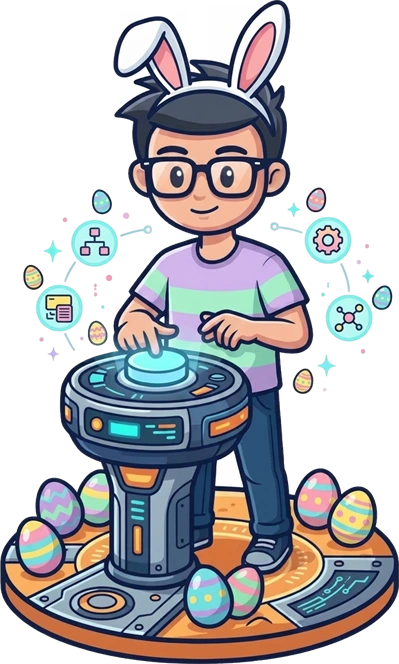
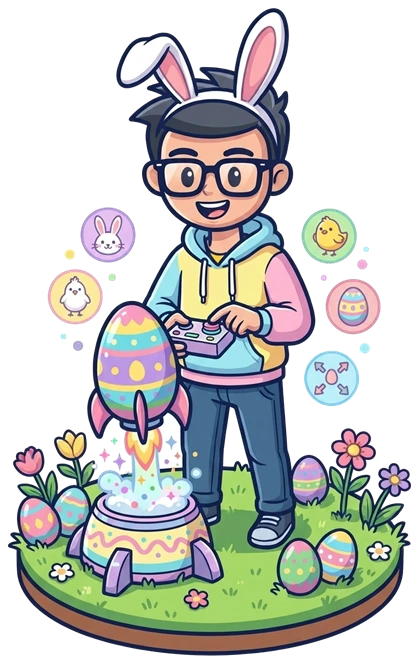
Fix mascot dark-mode transparency, add varied holiday scenes, and hide theme switcher behind Ctrl+Shift+M

diff --git a/src/dorc-web/tests/pages/page-deploy.test.ts b/src/dorc-web/tests/pages/page-deploy.test.ts
@@ -81,13 +81,36 @@ describe('PageDeploy responsive layout', () => {
     expect(getComputedStyle(pane!).alignItems).to.equal('center');
   });
 
-  it('shows an in-place mascot theme switcher only for Admin users and switches the image in place', async () => {
+  it('keeps the mascot theme switcher hidden by default and reveals it for Admin users via the Ctrl+Shift+M Easter egg', async () => {
     const el = await fixture<PageDeploy>(html` <page-deploy></page-deploy> `);
     el.isAdmin = false;
+    await el.updateComplete;
+    window.dispatchEvent(
+      new KeyboardEvent('keydown', {
+        key: 'M',
+        ctrlKey: true,
+        shiftKey: true,
+        bubbles: true
+      })
+    );
     await el.updateComplete;
     expect(el.shadowRoot!.querySelector('.mascot-theme-switcher')).to.be.null;
 
     el.isAdmin = true;
+    await el.updateComplete;
+    expect(
+      el.shadowRoot!.querySelector('.mascot-theme-switcher'),
+      'Switcher should stay hidden for Admins until the Easter egg is triggered'
+    ).to.be.null;
+
+    window.dispatchEvent(
+      new KeyboardEvent('keydown', {
+        key: 'M',
+        ctrlKey: true,
+        shiftKey: true,
+        bubbles: true
+      })
+    );
     await el.updateComplete;
 
     const switcher = el.shadowRoot!.querySelector('.mascot-theme-switcher');
@@ -113,5 +136,17 @@ describe('PageDeploy responsive layout', () => {
     const autoBtn = buttons.find(b => b.textContent?.trim() === 'Auto');
     autoBtn!.click();
     await el.updateComplete;
+
+    // Pressing Ctrl+Shift+M again hides the switcher
+    window.dispatchEvent(
+      new KeyboardEvent('keydown', {
+        key: 'm',
+        ctrlKey: true,
+        shiftKey: true,
+        bubbles: true
+      })
+    );
+    await el.updateComplete;
+    expect(el.shadowRoot!.querySelector('.mascot-theme-switcher')).to.be.null;
   });
 });

diff --git a/src/dorc-web/src/pages/page-deploy.ts b/src/dorc-web/src/pages/page-deploy.ts
@@ -44,8 +44,21 @@ export class PageDeploy extends PageElement {
   @property({ type: Boolean }) envsLoading = false;
   @property({ type: String }) selectionError = '';
   @property({ type: Boolean }) isAdmin = false;
+  @property({ type: Boolean }) themeSwitcherVisible = false;
 
   @state() private mascotTheme: MascotTheme = getDeployMascotThemeOverride();
+
+  private readonly boundKeyDown = (e: KeyboardEvent) => {
+    if (
+      this.isAdmin &&
+      e.ctrlKey &&
+      e.shiftKey &&
+      e.key.toLowerCase() === 'm'
+    ) {
+      e.preventDefault();
+      this.themeSwitcherVisible = !this.themeSwitcherVisible;
+    }
+  };
 
   @property({ type: String }) selectedEnvironmentName = '';
   @property({ type: String }) selectedProjectId =
@@ -183,6 +196,16 @@ export class PageDeploy extends PageElement {
     );
   }
 
+  connectedCallback() {
+    super.connectedCallback();
+    window.addEventListener('keydown', this.boundKeyDown);
+  }
+
+  disconnectedCallback() {
+    window.removeEventListener('keydown', this.boundKeyDown);
+    super.disconnectedCallback();
+  }
+
   private loadUserRoles() {
     const gc = GlobalCache.getInstance();
     if (gc.userRoles === undefined) {
@@ -278,7 +301,7 @@ export class PageDeploy extends PageElement {
             alt="Wait to Deploy"
           />
           ${
-            this.isAdmin
+            this.isAdmin && this.themeSwitcherVisible
               ? html`
                   <div
                     class="mascot-theme-switcher"
